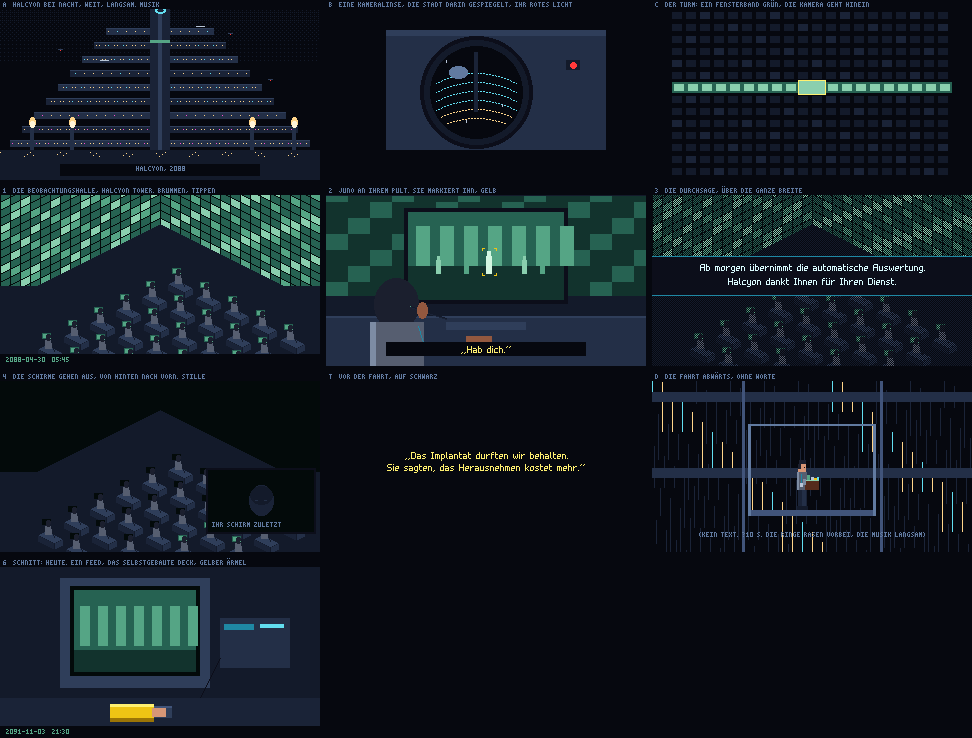
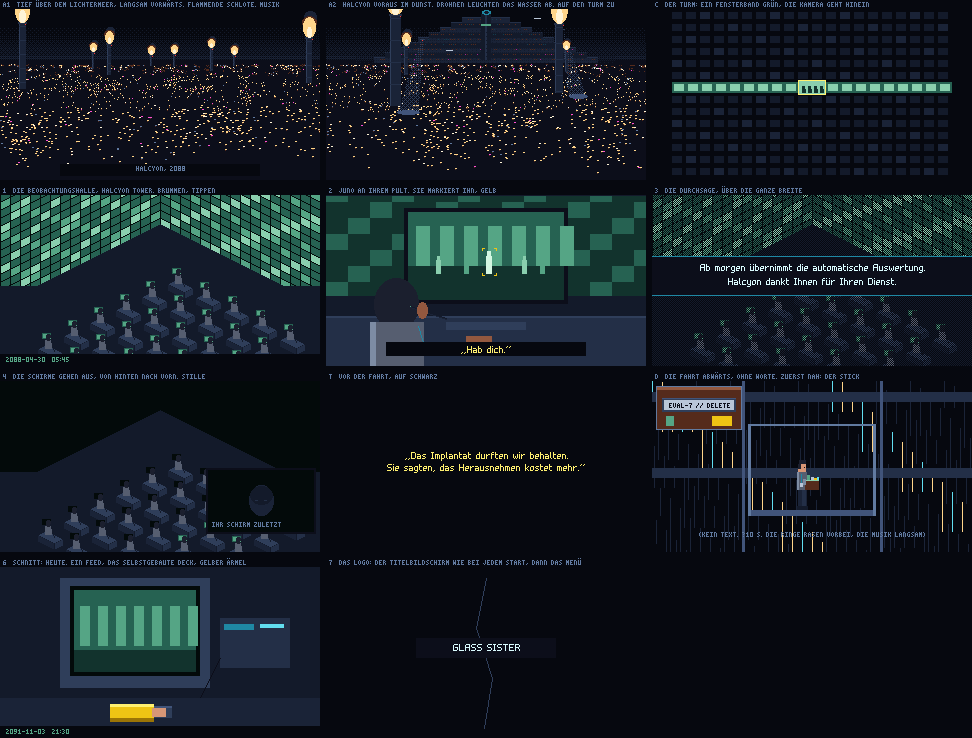
The intro's storyboard decided after the notes: it opens with one slow float, low over the lit sea over the drowned city (stilt huts, rafts and buoys to the horizon, the pumps' stacks standing out of the water and flaring, A1), Halcyon ahead in the haze with the nine rings and the tower, patrol dron

Changed region(s): [[0.0, 0.0, 0.679, 0.2182], [0.6481, 0.4986, 0.7716, 0.5921], [0.463, 0.8726, 0.5247, 0.9038]]

diff --git a/art/test/intro_blocks.px.js b/art/test/intro_blocks.px.js
@@ -1,10 +1,12 @@
-// H3: the intro "Die letzte Schicht" (kapitel0-design §5) as a storyboard in blocks, for approval before it is
-// painted: six shots at 320x180, each a sketch of what the camera sees, and Juno three years ago from the side
+// H3: the intro "Die letzte Schicht" (kapitel0-design §5) as a storyboard in blocks, decided 2026-11-04, before it
+// is painted: each shot at 320x180, a sketch of what the camera sees, and Juno three years ago from the side
 // (the first side view, style guide §4: the scale of the street, 30 px per meter of height).
-//   intro_blocks_1 .. intro_blocks_6   the shots (1 the hall, 2 Juno at her desk, 3 the announcement, 4 the
-//                                      screens going out and her face in the dark one, 5 the Transitachse, 6 today)
+//   intro_blocks_a1, _a2, _c           the opening: one float over the lit sea to the tower and in through a window
+//   intro_blocks_1 .. intro_blocks_4   the hall, Juno at her desk, the announcement, the screens going out
+//   intro_blocks_t, _d                 her words on black; the ride down the Transitachse, no words
+//   intro_blocks_6, _7                 today; the title screen with the logo
 //   intro_blocks_juno                  Juno in 2088 from the side: Halcyon grey, the badge on its lanyard, the box
-//   intro_blocks                       all of them on one sheet, numbered
+//   intro_blocks, intro_blocks_opening all of them on one sheet; the opening and the ride
 // The words on the screen are the game's (German, through i18n); painted text only the city's (English).
 pal({
   k: "#0c0e1a", n: "#06080f", 1: "#131a2a", 2: "#1a2337", 3: "#232f47", 4: "#2f3e5a", 5: "#41547a", 6: "#617aa0",
@@ -123,7 +125,7 @@ sprite("intro_blocks_4", { w: W, h: H }, (c) => {
   label(c, 4, "DIE SCHIRME GEHEN AUS, VON HINTEN NACH VORN. STILLE")
 })
 
-// ---------------------------------------------------------------- 5 the Transitachse: down, in a glass lift
+// ---------------------------------------------------------------- Juno in 2088, for the Transitachse (D)
 function juno2088(c, x, y, flip = false) {
   // side view, facing right (or left): 50 px; short black hair, Halcyon grey, dark trousers, the badge on its
   // lanyard, the box in her arms (a cactus, a cup, the yellow coat folded, the data stick)
@@ -137,23 +139,6 @@ function juno2088(c, x, y, flip = false) {
   r(5, -35, 3, 5, "9"); r(9, -33, 3, 3, "H"); r(12, -32, 4, 2, "y"); r(15, -33, 2, 3, "v")
   r(1, -31, 3, 6, "h")                                                                              // her arm round it
 }
-sprite("intro_blocks_5", { w: W, h: H }, (c) => {
-  c.rect(0, 0, W, H, "n")
-  // the city's rings passing upward behind the glass: decks, their lit windows, ads (the lift goes down)
-  for (const [y0, k] of [[14, "4"], [60, "3"], [104, "4"], [150, "3"]]) {
-    c.rect(0, y0, W, 6, k); c.rect(0, y0 + 6, W, 2, "1")
-    for (let x = 6; x < W; x += 14) if ((x * 7 + y0) % 3) c.rect(x, y0 + 10, 6, 4, (x + y0) % 5 ? "R" : "C")
-  }
-  c.rect(250, 70, 46, 18, "M"); c.rect(252, 72, 42, 14, "m"); TXT.draw(c, 256, 76, "LULL", "N", { font: "hud" })
-  // the shaft's rails, the cabin: a glass box with a steel frame and floor; motion lines (it falls)
-  c.rect(90, 0, 3, H, "5"); c.rect(228, 0, 3, H, "5")
-  c.rect(96, 52, 128, 2, "6"); c.rect(96, 138, 128, 6, "5"); c.rect(96, 52, 3, 92, "6"); c.rect(221, 52, 3, 92, "6")
-  for (let y = 54; y < 138; y++) for (let x = 99; x < 221; x++) if ((x + y * 3) % 23 === 0) c.px(x, y, "w")   // the glass
-  for (let i = 0; i < 9; i++) c.vline(40 + i * 33, 10 + (i * 37) % 120, 14, "5")
-  juno2088(c, 150, 138)
-  c.rect(30, 156, 260, 14, "n"); TXT.draw(c, 160, 160, "„Das Implantat durften wir behalten.“", "Y", { align: "center" })
-  label(c, 5, "DIE TRANSITACHSE, ABWÄRTS: DIE ERSTE SEITENANSICHT")
-})
 
 // ---------------------------------------------------------------- 6 today
 sprite("intro_blocks_6", { w: W, h: H }, (c) => {
@@ -167,57 +152,102 @@ sprite("intro_blocks_6", { w: W, h: H }, (c) => {
   c.rect(0, H - 12, W, 12, "n"); TXT.draw(c, 6, H - 9, "2091-11-03  21:30", "9", { font: "hud" })
   label(c, 6, "SCHNITT: HEUTE. EIN FEED, DAS SELBSTGEBAUTE DECK, GELBER ÄRMEL")
 })
+// 7  the end: the title screen with the Glass Sister logo (art/ui/splash.px.js), as on every start, then the menu
+sprite("intro_blocks_7", { w: W, h: H }, (c) => {
+  c.rect(0, 0, W, H, "n")
+  c.line(160, 20, 150, 70, "4"); c.line(150, 70, 166, 120, "4"); c.line(166, 120, 158, 170, "4")      // the crack in the glass
+  c.rect(90, 80, 140, 20, "k"); TXT.draw(c, 160, 86, "GLASS SISTER", "V", { align: "center" })
+  label(c, 7, "DAS LOGO: DER TITELBILDSCHIRM WIE BEI JEDEM START, DANN DAS MENÜ")
+})
 
 sprite("intro_blocks_juno", { w: 60, h: 60, pivot: "bottom" }, (c) => { c.rect(0, 0, 60, 60, "3"); juno2088(c, 26, 56) })
 
 // ---------------------------------------------------------------- the opening (after the notes of 2026-11-04):
-// the mood of a neo-noir opening, our own pictures: Halcyon at night, wide and slow; a camera's lens with the
-// city in it; the tower's green window band, and through it into the hall
-// A  the city: the nine rings stacked over the sea, the tower through them, the pumps' stacks flaring, drones
-//    and transit pods crossing, rain haze; the camera drifts in slowly
-sprite("intro_blocks_a", { w: W, h: H }, (c) => {
+// the mood of a neo-noir opening, our own pictures: one slow float, low over the lit sea to the tower and in
+// through its green window band. The ground is seen in perspective (a camera 20 m over the water, the horizon
+// at HZ), so the float can be drawn the same way in the game: lights and stacks at (X, Z), the camera moving in Z.
+// A1 low over the water: the drowned city's roofs, stilt huts, rafts and buoys lit to the horizon, the pumps'
+//    stacks standing out of the sea and flaring, the haze glowing; the camera drifts forward, slowly
+// A2 further on: Halcyon ahead in the haze, the nine rings stacked, the tower through them; the patrol
+//    drones' searchlights sweeping the water; big stacks passing on both sides
+// C  the tower close, one window band glowing phosphor green; the camera goes in through one window
+const HZ = 60, F = 160, CAM_H = 20
+const rnd = (i, s) => { let h = (i * 374761393 + s * 668265263) | 0; h = Math.imul(h ^ (h >>> 13), 1274126177); return ((h ^ (h >>> 16)) >>> 0) / 4294967296 }
+const proj = (X, Z, Y = 0) => [Math.round(160 + (X * F) / Z), Math.round(HZ + ((CAM_H - Y) * F) / Z)]
+// the sky, its haze glowing over the horizon, and the dark water
+function skyAndSea(c) {
   c.rect(0, 0, W, H, "n")
-  for (let y = 0; y < 70; y++) for (let x = 0; x < W; x++) if (ISO_BAY(x, y) < (70 - y) / 300) c.px(x, y, "1")   // the haze's glow over the city
-  // the sea at the bottom, the reflections of the lit rings in it
-  c.rect(0, 150, W, 30, "1"); for (let x = 0; x < W; x += 3) if ((x * 7) % 11 < 4) c.px(x, 152 + (x % 5), "R")
-  // the rings: wide bands of lit windows, narrower as they go up (the Lower Ninth widest, at the bottom)
-  for (let r = 0; r < 9; r++) {
-    const y0 = 146 - r * 14, half = 150 - r * 12
-    c.rect(160 - half, y0 - 6, half * 2, 7, r % 2 ? "2" : "3"); c.hline(160 - half, y0 - 6, half * 2, "4")
-    for (let x = 160 - half + 2; x < 160 + half - 2; x += 3) if (((x * 13 + r * 7) % 9) < 5) c.px(x, y0 - 3, r < 3 ? ((x + r) % 4 ? "R" : "m") : (x + r) % 5 ? "R" : "v")
+  for (let y = HZ - 34; y < HZ; y++) for (let x = 0; x < W; x++) if (ISO_BAY(x, y) < (y - HZ + 34) / 40) c.px(x, y, (y > HZ - 6 && ISO_BAY(x, y) < 0.3) ? "2" : "1")
+  c.rect(0, HZ, W, H - HZ, "k")
+}
+// the lights on the water: clusters (huts on stilts, rafts) of warm windows, a few cold and pink ones, spread
+// evenly down the screen (Z drawn uniform in 1/Z), the near ones two pixels wide with a glint below; seed: which
+function seaLights(c, seed) {
+  for (let i = 0; i < 520; i++) {
+    const u = rnd(i, seed + 2) ** 2.6, cz = 1 / (1 / 600 + u * (1 / 30 - 1 / 600)), cx = (rnd(i, seed + 1) - 0.5) * cz * 2.4
+    const n = 2 + Math.floor(rnd(i, seed + 3) * 6)
+    for (let j = 0; j < n; j++) {
+      const X = cx + (rnd(i * 8 + j, seed + 4) - 0.5) * 8, Z = cz + (rnd(i * 8 + j, seed + 5) - 0.5) * 8
+      if (Z < 26) continue
+      const [x, y] = proj(X, Z, rnd(i * 8 + j, seed + 6) * 4)
+      if (x < 0 || x >= W || y < HZ || y >= H) continue
+      const t = rnd(i * 8 + j, seed + 7), k = t < 0.72 ? "R" : t < 0.86 ? "W" : t < 0.95 ? "6" : "m"
+      c.px(x, y, Z > 180 && t < 0.6 ? "O" : k)
+      if (Z < 60) c.px(x + 1, y, k)
+      if (Z < 120 && rnd(i * 8 + j, seed + 9) < 0.5) c.px(x, y + 1, "O")                              // its glint in the water
+    }
   }
-  // the tower through them, its lit spine, Halcyon's ring logo at its top; the green band of the hall
-  c.rect(150, 4, 20, 146, "2"); c.rect(158, 4, 4, 146, "4"); c.rect(150, 40, 20, 3, "9")
-  c.ellipse(160, 10, 5, 3, "v"); c.ellipse(160, 10, 3, 1, "2")
-  // the pumps' stacks at sea level, flaring
-  for (const x of [30, 70, 250, 292]) { c.rect(x, 128, 4, 22, "3"); c.ellipse(x + 2, 122, 3, 5, "R"); c.ellipse(x + 2, 124, 2, 3, "W") }
-  // drones (red eyes) and transit pods (white streaks)
-  for (const [x, y] of [[60, 50], [230, 34], [270, 80]]) { c.px(x, y, "q"); c.hline(x - 2, y - 1, 5, "4") }
-  for (const [x, y] of [[100, 60], [196, 26]]) c.hline(x, y, 9, "H")
+}
+// a pump's stack standing out of the sea, its flame at the top (Y in metres)
+function stack(c, X, Z, top = 34) {
+  const [x0, y0] = proj(X, Z), [, y1] = proj(X, Z, top), w = Math.max(2, Math.round((5 * F) / Z))
+  c.rect(x0 - (w >> 1), y1, w, y0 - y1, "2"); c.rect(x0 - (w >> 1), y1, 1, y0 - y1, "4"); c.rect(x0 - (w >> 1) - 1, y1, w + 2, 2, "3")
+  for (let b = y1 + 4; b < y0; b += Math.max(4, w * 2)) c.hline(x0 - (w >> 1), b, w, "3")            // its rings and ladders
+  c.px(x0 + (w >> 1), y1 + 2, "q")
+  // the flame, billowing up, its smoke lit from below
+  const f = Math.max(2, Math.round((4 * F) / Z))
+  c.ellipse(x0 + 1, y1 - f * 4, f + 1, f + 1, "2"); c.ellipse(x0, y1 - f * 3, f + 2, f + 1, "O")
+  c.ellipse(x0, y1 - f * 2, f + 1, f * 2, "R"); c.ellipse(x0, y1 - f, Math.max(1, f >> 1), f, "W")
+}
+// a patrol drone (its red eye) and its searchlight cone down to the water, dithered
+function droneBeam(c, x, y, gx, gy, spread) {
+  for (let yy = y + 2; yy <= gy; yy++) {
+    const t = (yy - y) / (gy - y), cx = x + (gx - x) * t, hw = 1 + spread * t
+    for (let xx = Math.floor(cx - hw); xx <= cx + hw; xx++) if (ISO_BAY(xx, yy) < 0.22 + 0.2 * t) c.px(xx, yy, yy > gy - 3 ? "6" : "4")
+  }
+  c.ellipse(gx, gy, spread + 2, 2, "5"); c.hline(x - 2, y - 1, 5, "4"); c.px(x, y, "q")
+}
+sprite("intro_blocks_a1", { w: W, h: H }, (c) => {
+  skyAndSea(c); seaLights(c, 0)
+  for (const [X, Z, t] of [[-150, 360, 40], [-70, 220, 44], [90, 280, 42], [130, 140, 40], [-95, 110, 46], [40, 460, 40], [230, 500, 38], [-30, 520, 40]]) stack(c, X, Z, t)
   c.rect(60, 164, 200, 12, "n"); TXT.draw(c, 160, 166, "HALCYON, 2088", "6", { align: "center", font: "hud" })
-  label(c, "A", "HALCYON BEI NACHT, WEIT, LANGSAM. MUSIK")
+  label(c, "A1", "TIEF ÜBER DEM LICHTERMEER, LANGSAM VORWÄRTS. FLAMMENDE SCHLOTE. MUSIK")
 })
-// B  a camera's lens on a mast, the city curved in its glass, its red light blinking, rain on it
-sprite("intro_blocks_b", { w: W, h: H }, (c) => {
-  c.rect(0, 0, W, H, "n")
-  c.rect(60, 30, 220, 120, "3"); c.rect(60, 30, 220, 6, "4"); c.rect(240, 60, 14, 10, "1"); c.ellipse(247, 65, 3, 3, "q")
-  c.ellipse(150, 92, 56, 56, "k"); c.ellipse(150, 92, 52, 52, "1"); c.ellipse(150, 92, 46, 46, "n")
-  // the city in it: the rings' bands bent round the lens, the tower
-  for (let r = 0; r < 6; r++) for (let x = -40; x <= 40; x++) {
-    const y = 92 + 26 - r * 9 + Math.round((x * x) / 160)
-    if (Math.hypot(x, y - 92) < 44 && ((x + r * 3) % 3)) c.px(150 + x, y, r < 2 ? "R" : "v")
+sprite("intro_blocks_a2", { w: W, h: H }, (c) => {
+  skyAndSea(c)
+  // Halcyon ahead in the haze: the nine rings stacked, narrower going up, their window bands dim with distance;
+  // the tower through them, its ring logo, the hall's green band
+  for (let r = 0; r < 9; r++) {
+    const y0 = HZ + 2 - r * 5, half = 112 - r * 11
+    c.rect(160 - half, y0 - 5, half * 2, 6, r % 2 ? "1" : "2"); c.hline(160 - half, y0 - 5, half * 2, "3")
+    for (let x = 160 - half + 2; x < 160 + half - 2; x += 2) if (rnd(x, r) < 0.45) c.px(x, y0 - 3, r < 3 ? (rnd(x, r + 20) < 0.85 ? "O" : "M") : rnd(x, r + 20) < 0.7 ? "O" : "c")
   }
-  c.rect(148, 52, 4, 60, "2"); c.ellipse(132, 72, 9, 6, "6")                                              // the tower, a glint
-  for (const [x, y] of [[120, 60], [176, 104], [140, 120]]) c.vline(x, y, 3, "H")                     // drops on the glass
-  label(c, "B", "EINE KAMERALINSE, DIE STADT DARIN GESPIEGELT, IHR ROTES LICHT")
+  c.rect(155, 14, 10, HZ - 14, "1"); c.rect(159, 14, 2, HZ - 14, "3"); c.rect(155, 24, 10, 2, "9")
+  c.ellipse(160, 12, 4, 2, "C"); c.ellipse(160, 12, 2, 1, "1")
+  for (let y = HZ - 30; y < HZ + 4; y++) for (let x = 30; x < 290; x++) if (ISO_BAY(x, y) < 0.18) c.px(x, y, "1")   // the haze in front of it
+  seaLights(c, 40)
+  droneBeam(c, 96, 40, 82, 112, 9); droneBeam(c, 236, 30, 252, 96, 7)
+  for (const [X, Z, t] of [[-40, 70, 40], [44, 96, 42], [-110, 220, 40], [130, 260, 38]]) stack(c, X, Z, t)
+  for (const [x, y] of [[120, 50], [208, 18]]) c.hline(x, y, 7, "H")                                  // transit pods
+  label(c, "A2", "HALCYON VORAUS IM DUNST. DROHNEN LEUCHTEN DAS WASSER AB. AUF DEN TURM ZU")
 })
-// C  the tower close: its windows, one band glowing phosphor green; the camera goes in through it
 sprite("intro_blocks_c", { w: W, h: H }, (c) => {
   c.rect(0, 0, W, H, "n")
   for (let y = 12; y < H; y += 12) for (let x = 20; x < 300; x += 14) c.rect(x, y, 10, 7, y === 84 ? "9" : (x + y) % 5 ? "1" : "2")
   c.rect(20, 82, 280, 11, "8"); for (let x = 22; x < 298; x += 14) c.rect(x, 84, 10, 7, "P")
-  // the way in: the frame closing on one window
+  // the way in: the frame closing on one window, the desks and their watchers behind it
   c.rect(146, 80, 28, 15, "Y"); c.rect(147, 81, 26, 13, "P")
+  for (let x = 150; x < 172; x += 6) { c.rect(x, 89, 4, 4, "7"); c.ellipse(x + 1, 87, 1, 1, "7") }
   label(c, "C", "DER TURM: EIN FENSTERBAND GRÜN, DIE KAMERA GEHT HINEIN")
 })
 // D  the ride down: no words; the rings rush up past the glass in streaks, Juno still with her box; slow music
@@ -228,8 +258,13 @@ sprite("intro_blocks_d", { w: W, h: H }, (c) => {
   c.rect(90, 0, 3, H, "5"); c.rect(228, 0, 3, H, "5")
   c.rect(96, 52, 128, 2, "6"); c.rect(96, 138, 128, 6, "5"); c.rect(96, 52, 3, 92, "6"); c.rect(221, 52, 3, 92, "6")
   juno2088(c, 150, 138)
+  // where the ride begins: close on the box, the data stick's label readable for a second, then the camera pulls back
+  c.rect(4, 14, 86, 44, "6"); c.rect(5, 15, 84, 42, "O"); c.rect(5, 15, 84, 3, "s")
+  c.rect(10, 26, 74, 14, "4"); c.rect(10, 26, 74, 1, "5"); c.rect(12, 28, 70, 10, "H")
+  TXT.draw(c, 47, 31, "EVAL-7 // DELETE", "k", { align: "center", font: "hud" })
+  c.rect(60, 44, 20, 10, "y"); c.rect(14, 44, 8, 10, "9")
   TXT.draw(c, 160, 160, "(KEIN TEXT. ~10 S. DIE RINGE RASEN VORBEI, DIE MUSIK LANGSAM)", "6", { align: "center", font: "hud" })
-  label(c, "D", "DIE FAHRT ABWÄRTS, OHNE WORTE")
+  label(c, "D", "DIE FAHRT ABWÄRTS, OHNE WORTE. ZUERST NAH: DER STICK")
 })
 
 // T  before the ride, on black: her words (the ride itself has none)
@@ -240,8 +275,13 @@ sprite("intro_blocks_t", { w: W, h: H }, (c) => {
   label(c, "T", "VOR DER FAHRT, AUF SCHWARZ")
 })
 
-const STORY = ["a", "b", "c", 1, 2, 3, 4, "t", "d", 6]
+const STORY = ["a1", "a2", "c", 1, 2, 3, 4, "t", "d", 6, 7]
 sprite("intro_blocks", { w: W * 3 + 12, h: H * 4 + 18 }, (c) => {
   c.rect(0, 0, W * 3 + 12, H * 4 + 18, "n")
   STORY.forEach((n, i) => c.stamp(`intro_blocks_${n}`, (i % 3) * (W + 6), Math.floor(i / 3) * (H + 6)))
+})
+// the opening on its own: the float and the ride
+sprite("intro_blocks_opening", { w: W * 2 + 6, h: H * 2 + 6 }, (c) => {
+  c.rect(0, 0, W * 2 + 6, H * 2 + 6, "n")
+  ;["a1", "a2", "c", "d"].forEach((n, i) => c.stamp(`intro_blocks_${n}`, (i % 2) * (W + 6), Math.floor(i / 2) * (H + 6)))
 })

diff --git a/docs/kapitel0-design.md b/docs/kapitel0-design.md
@@ -231,25 +231,31 @@ alten Beobachter-Protokoll (nur bestimmte alte Kameras, Kap. 1).
 
 ## 5. Vorspann: Die letzte Schicht (vor dem Titel, ~1,5 Min.)
 
-Eine Sequenz (wie das Intro der Loonies), überspringbar, im Titelmenü wieder abspielbar.
+Eine Sequenz (wie das Intro der Loonies), überspringbar. **Sie läuft nur beim ersten Start** von selbst und ist im
+Titelmenü jederzeit wieder abspielbar. Sie endet auf dem **Titelbildschirm mit dem Glass-Sister-Logo** (die
+Geschwister hinter dem gesprungenen Glas, `art/ui/splash.px.js`), der **bei jedem Spielstart** kommt, mit oder ohne
+Vorspann; danach das Menü.
 
-**Überarbeitet (2026-11-04, Storyboard als Blöcke: `art/test/intro_blocks.px.js`, `docs/rooms/intro_blocks.png`):**
-Der Anfang hat die Stimmung eines Neo-Noir-Vorspanns (in der Art von Blade Runner, mit eigenen Bildern): (A) Halcyon
-bei Nacht, weit und langsam, die neun Ringe über dem Meer, der Turm hindurch, die Pumpenschlote flammen, Drohnen
-und Transitkapseln, Musik; (B) eine Kameralinse an einem Mast, die Stadt darin gespiegelt, ihr rotes Licht; (C) der
-Turm von nah, ein Fensterband glimmt phosphorgrün, die Kamera geht hindurch: in die Halle (Einstellung 1). Der Satz
-über das Implantat steht **vor** der Aufzugfahrt, auf Schwarz; die Fahrt selbst (~10 s) hat **keinen Text**: die Ringe
-rasen vorbei, schnell animiert, dazu nur eine langsame, melancholische, eindringliche Melodie. Die Tabelle unten
-ist die erste Fassung; offen: womit Einstellung 6 endet, wie das Deck 2091 aussieht.
+**Entschieden (2026-11-04, Storyboard als Blöcke: `art/test/intro_blocks.px.js`, `docs/rooms/intro_blocks.png`, der
+Anfang: `docs/rooms/intro_blocks_opening_x2.png`):** Der Anfang hat die Stimmung eines Neo-Noir-Vorspanns, mit eigenen
+Bildern: **ein einziger, langsamer Flug**, tief über die Stadt bis zum Turm und durch ein Fenster in die
+Beobachtungshalle. Der Satz über das Implantat steht **vor** der Aufzugfahrt, auf Schwarz; die Fahrt selbst (~10 s)
+hat **keinen Text**: die Ringe rasen vorbei, dazu nur eine langsame, melancholische, eindringliche Melodie. Das Deck
+2091 bleibt, wie es ist (Röhrenmonitor und Maus, mit Absicht; story §10).
 
 | Einstellung | Bild | Ton und Text |
 |---|---|---|
+| A1 | **Über dem Lichtermeer**: Die Kamera schwebt tief und langsam vorwärts über das Meer über der ertrunkenen Stadt, voller Lichter bis zum Horizont (Pfahlhütten, Flöße, Bojen); die Schlote der Meerespumpen ragen aus dem Wasser und flammen; der Dunst glimmt. In Perspektive (Lichter und Schlote in der Tiefe, die Kamera bewegt sich vorwärts), damit der Flug im Spiel genauso gezeichnet werden kann. | Musik. Unten: `HALCYON, 2088` |
+| A2 | **Halcyon voraus** im Dunst: die neun Ringe übereinander, der Turm hindurch, sein Ringlogo; Patrouillendrohnen leuchten das Wasser ab; große Schlote ziehen links und rechts vorbei, Transitkapseln. Der Flug geht auf den Turm zu. | Musik |
+| C | **Der Turm von nah**: Reihen dunkler Fenster, ein Band glimmt phosphorgrün; die Kamera fährt auf ein Fenster zu (dahinter Pulte und Menschen) und hindurch. | Musik, dann Brummen |
 | 1 | **Die Beobachtungshalle**, Halcyon Tower, drei Jahre früher: Iso-Ansicht, Reihen von Pulten, jedes mit einem Menschen vor einer Wand aus Phosphor-Bildschirmen. Kabel aus den Pulten in die Implantate. | Brummen, leises Tippen. Datum unten: `2088-04-30 05:45` |
 | 2 | Juno an ihrem Pult (ohne gelben Mantel: Halcyon-Grau, Ausweis am Band). Ihr Bildschirm: eine Straße, ein Mann bleibt stehen. Sie markiert ihn, gelb. | Juno, leise: „Hab dich." |
 | 3 | Eine Durchsage, Text über die ganze Breite | „Ab morgen übernimmt die automatische Auswertung. Halcyon dankt Ihnen für Ihren Dienst." |
 | 4 | Die Bildschirme der Halle gehen aus, einer nach dem anderen, von hinten nach vorn. Junos zuletzt. In ihrem schwarzen Bildschirm spiegelt sich ihr Gesicht. | Stille |
-| 5 | Juno mit einem Karton auf der Transitachse, abwärts. Im Karton: ein Kaktus, eine Tasse, der gelbe Regenmantel und ein Datenstick mit einem Aufkleber `EVAL-7 · LÖSCHEN` (eine Sekunde im Bild, nicht kommentiert). | „Das Implantat durften wir behalten. Sie sagten, das Herausnehmen kostet mehr." |
-| 6 | Schnitt: heute. Ein Phosphor-Feed, ein selbstgebautes Deck, Junos Hand auf der Maus. Gelber Ärmel. | `2091-11-03 21:30` Titel: **HALCYON** |
+| T | Schwarz | „Das Implantat durften wir behalten. Sie sagten, das Herausnehmen kostet mehr." |
+| D | **Die Transitachse**, abwärts, die erste Seitenansicht: zuerst nah am Karton (ein Kaktus, eine Tasse, der gelbe Regenmantel und ein Datenstick mit dem Aufkleber `EVAL-7 // DELETE`, gemalt und englisch wie alle Technik der Stadt; eine Sekunde lesbar, nicht kommentiert), dann zieht die Kamera auf: Juno mit dem Karton im gläsernen Aufzug, die Ringe rasen vorbei. ~10 s. | Kein Text. Eine langsame, melancholische Melodie |
+| 6 | Schnitt: heute. Ein Phosphor-Feed auf dem Röhrenmonitor, das selbstgebaute Deck, Junos Hand auf der Maus. Gelber Ärmel. | `2091-11-03 21:30` |
+| 7 | **Der Titelbildschirm** mit dem Glass-Sister-Logo (wie bei jedem Start), dann das Menü | Junos Thema |
 
 ## 6. Der Prolog Schritt für Schritt
 

diff --git a/docs/NEXT-SESSION.md b/docs/NEXT-SESSION.md
@@ -34,25 +34,26 @@ Where we are (everything is committed, in both repos; the engine copy is at Cuta
 - Checks now: validate 0 errors (3 known warnings: flags set but not yet tested), solve --full no soft-locks,
   every state has a hint, play.mjs all passed (to the end card).
 
-Next: **the intro "Die letzte Schicht"** (kapitel0-design §5, revised 2026-11-04). Its storyboard is drawn as
-blocks (art/test/intro_blocks.px.js; docs/rooms/intro_blocks.png, the opening: docs/rooms/intro_blocks_opening_x1.5.png;
+Next: **paint the intro "Die letzte Schicht"** (kapitel0-design §5, decided 2026-11-04). Its storyboard in blocks
+(art/test/intro_blocks.px.js; docs/rooms/intro_blocks.png, the opening: docs/rooms/intro_blocks_opening_x2.png;
 Juno 2088: docs/characters/juno2088_blocks_x6.png), in this order:
-A Halcyon at night, wide and slow, in the mood of a neo-noir opening (like Blade Runner's, our own pictures): the
-nine rings over the sea, the tower through them, the pumps' stacks flaring, drones and transit pods, music;
-B a camera's lens on a mast, the city curved in its glass, its red light (instead of the film's eye);
-C the tower close, one window band glowing phosphor green, the camera goes in through it;
+A1 one slow float, low over the lit sea over the drowned city (stilt huts, rafts, buoys to the horizon), the pumps'
+stacks standing out of the water and flaring, music, "HALCYON, 2088"; A2 Halcyon ahead in the haze, the nine rings,
+the tower through them, patrol drones' searchlights on the water, big stacks passing; C the tower close, one window
+band phosphor green, the camera goes in through one window (the neo-noir mood, our own pictures; drawn in
+perspective, lights and stacks at (X, Z), so the float can be drawn the same way in the game);
 1 the observation hall (iso, 2088-04-30 05:45); 2 Juno at her desk from behind her shoulder, tagging a man
 yellow ("Hab dich."); 3 the announcement across the width; 4 the screens going out back to front, her face in her
 dark screen; T on black: "Das Implantat durften wir behalten. Sie sagten, das Herausnehmen kostet mehr.";
-D the ride down the Transitachse (the first side view): ~10 s, no words, the rings rushing past fast, a slow,
-melancholic, haunting melody (to compose: game/music.js has the cs80brass); 6 today, 2091-11-03 21:30.
-Waiting for my decisions: approval of the storyboard; what shot 6 ends on (the Glass Sister logo, or straight to
-the title screen); the data stick's label (painted text is English: EVAL-7 // DELETE); and **how the deck looks**
-(I questioned the CRT and the mouse: 80s retro that isn't even right today; keep the retro-future look on
-purpose, or a salvaged modern rig: thin cracked glass panels, a projected display, the implant overlay, a worn
-touch slab; this touches the flat's deck too). After that: paint the shots (the hall from a map and a kit, the
-city, the lens and the tower as pictures, the lift as a tall room the camera goes down while the rings rush
-past), Juno in 2088 from the side, the melody, then the sequence (game/intro.js) before the title.
+D the ride down the Transitachse (the first side view): it starts close on the box, the data stick's label
+EVAL-7 // DELETE readable for a second, then pulls back; ~10 s, no words, the rings rushing past, a slow,
+melancholic, haunting melody (to compose: game/music.js has the cs80brass); 6 today, 2091-11-03 21:30 (the deck as
+it is: CRT and mouse, on purpose); 7 the title screen with the Glass Sister logo (the splash), then the menu.
+The intro plays by itself on the first start only and from the menu; the splash comes on every start.
+To do: paint the shots (the float as a perspective layer or pictures, the hall from a map and a kit, the tower,
+the lift as a tall room the camera goes down while the rings rush past), Juno in 2088 from the side, the melody,
+then the sequence (game/intro.js) before the splash, a "seen the intro" setting, and the menu's entry.
+Open: the lens on a mast (the old shot B) is out of the float; it could come back as a moment inside it.
 
 Open points: the post-it "ESSEN!!" painted in German in the flat (make it language-free or an overlay); the
 flat's empty front floor; the steam fx in the street was replaced by baked plumes (check the engine's steam

diff --git a/docs/PLAN.md b/docs/PLAN.md
@@ -12,9 +12,12 @@ where it hides someone: the engine's `seeThrough`), the alley shut; the cart end
 schreib's an.", paying cash with `bao_paid`, eating: `ate_bao`); the menu screen shows the street whole as a still. Steps 17-18 follow it: the broken screen
 stutters, the eye in its static turns to Juno, JUNO. over the whole screen with the stinger "witness", Bao saw
 nothing, EVI: "Das war nicht ich. Ehrlich.", the card for Chapter 1 (`docs/rooms/kowalski_juno_x3.png`). **The
-prologue plays from the flat to its end.** The intro "Die letzte Schicht" (kapitel0-design §5) is drawn as a storyboard in blocks for approval
-(`art/test/intro_blocks.px.js`, `docs/rooms/intro_blocks_x1.5.png`).
-The engine is at Cutaway.js commit 9db22f4 (`lib/cutaway/VERSION.txt`).
+prologue plays from the flat to its end.** The intro "Die letzte Schicht" (kapitel0-design §5) is decided as a storyboard in blocks
+(`art/test/intro_blocks.px.js`, `docs/rooms/intro_blocks.png`, the opening `intro_blocks_opening_x2.png`): one slow
+float over the lit sea to the tower and in through its green window, the hall, the ride down without words; it plays
+on the first start only (and from the menu) and ends on the title screen with the logo, which comes on every start.
+The deck keeps its CRT and mouse. Next: paint it.
+The engine is at Cutaway.js commit e2bc1d6 (`lib/cutaway/VERSION.txt`).
 
 What was added on 2026-11-04 (in order):
 - every text through i18n (`Halcyon.t`, the engine's `i18n.declare`); a Chinese layout test

diff --git a/docs/story.md b/docs/story.md
@@ -480,3 +480,13 @@ Optional, über die Kapitel verteilt; jede zeigt auch etwas von der Stadt.
   Montieren (aus idea2), Aufträge als kleine Leben und NINTH LIVE (aus idea2), die vererbte Flutschuld
   (aus idea1). Nicht übernommen: Erinnerungshandel als Prämisse und der Twist „alles ist eine
   Simulation, du bist die KI".
+
+## 10a. Entscheidungen (2026-11-04)
+
+- **Der Vorspann „Die letzte Schicht"** (`docs/kapitel0-design.md` §5) beginnt mit einem einzigen, langsamen Flug
+  tief über das Lichtermeer zum Turm und durch ein grünes Fenster in die Beobachtungshalle, in der Stimmung eines
+  Neo-Noir-Vorspanns, mit eigenen Bildern. Er läuft nur beim ersten Start von selbst und ist im Menü wieder
+  abspielbar; der Titelbildschirm mit dem Glass-Sister-Logo kommt bei jedem Start.
+- **Der Datenstick** im Karton trägt `EVAL-7 // DELETE` (gemalter Text ist englisch, wie alle Technik der Stadt).
+- **Das Deck bleibt, wie es ist**: Röhrenmonitor, Maus, selbstgebaute Platinen. Der Retro-Look ist Absicht (die
+  Welt des Neunten ist zusammengeflickt), keine Vorhersage.
